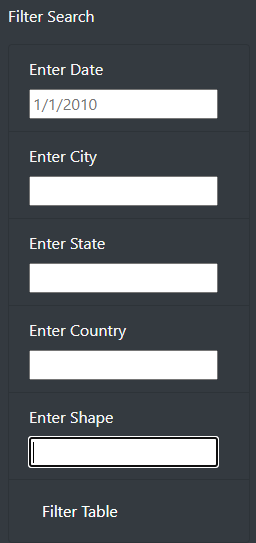
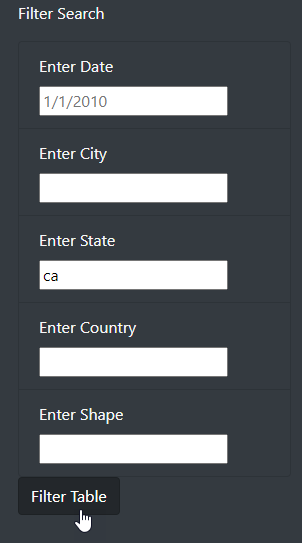
Update index.html

diff --git a/ufos/index.html b/ufos/index.html
@@ -67,10 +67,8 @@
                                     <label for="shape">Enter Shape</label>
                                     <input type="text" id="shape" />
                                 </li>
-                                <li class="bg-dark list-group-item">
-                                    <button id="filter-btn" type="button" class="btn btn-dark">Filter Table</button>
-                                </li>
                             </ul>
+                            <button id="filter-btn" type="button" class="btn btn-dark">Filter Table</button>
                         </form>
                     </div>
                     <div class="col-md-9">
